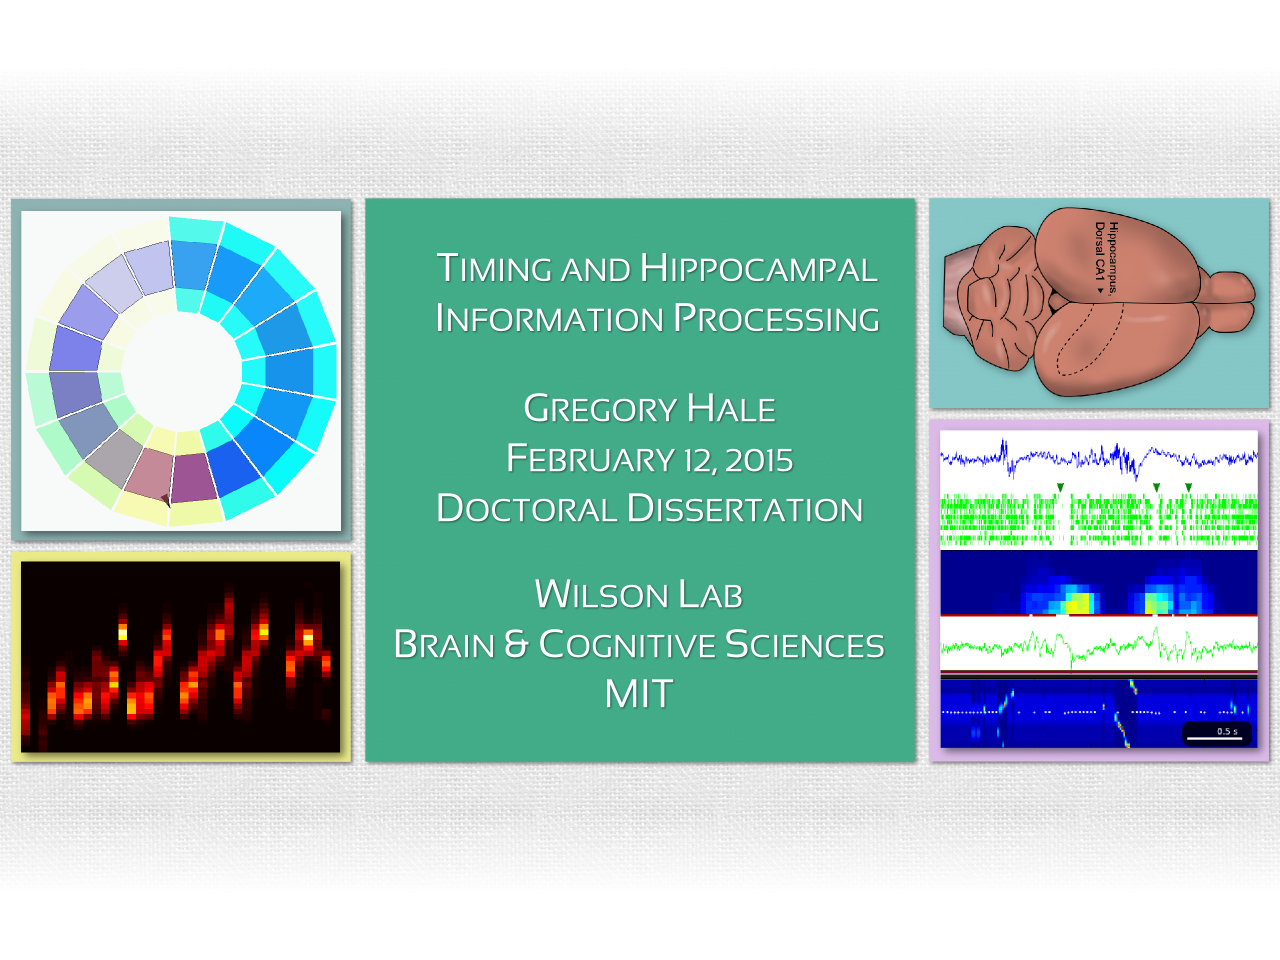
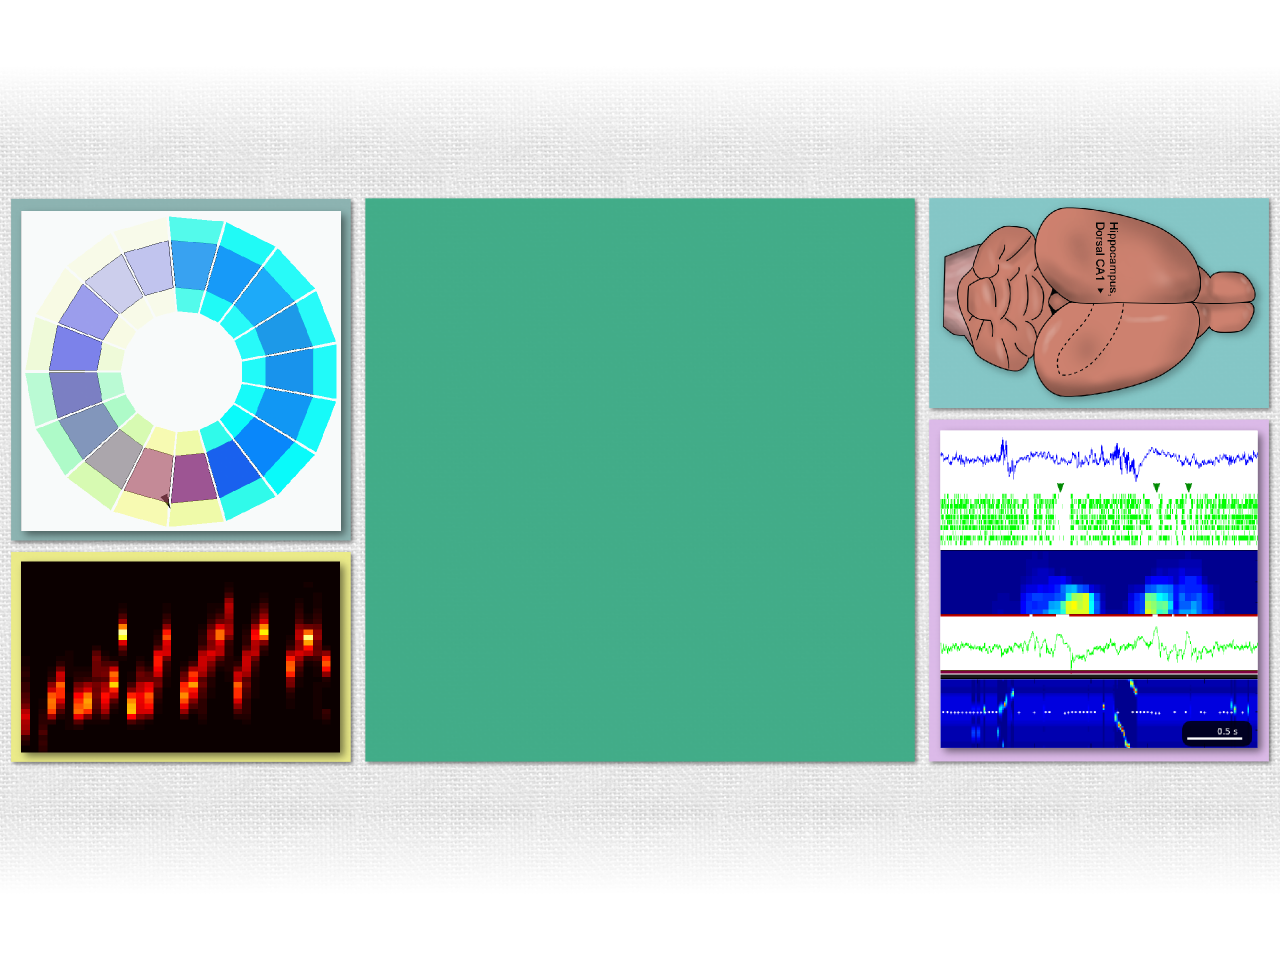
slides

diff --git a/thesis/revealTemplate.html b/thesis/revealTemplate.html
@@ -1,0 +1,110 @@
+<!DOCTYPE html>
+<html$if(lang)$ lang="$lang$"$endif$>
+<head>
+  <meta charset="utf-8">
+  <meta name="generator" content="pandoc">
+$for(author-meta)$
+  <meta name="author" content="$author-meta$" />
+$endfor$
+$if(date-meta)$
+  <meta name="dcterms.date" content="$date-meta$" />
+$endif$
+  <title>$if(title-prefix)$$title-prefix$ - $endif$$pagetitle$</title>
+  <meta name="apple-mobile-web-app-capable" content="yes" />
+  <meta name="apple-mobile-web-app-status-bar-style" content="black-translucent" />
+  <meta name="viewport" content="width=device-width, initial-scale=1.0, maximum-scale=1.0, user-scalable=no">
+  <link rel="stylesheet" href="$revealjs-url$/css/reveal.min.css"/>
+    <style type="text/css">code{white-space: pre;}</style>
+$if(highlighting-css)$
+    <style type="text/css">
+$highlighting-css$
+    </style>
+$endif$
+$if(css)$
+$for(css)$
+    <link rel="stylesheet" href="$css$"/>
+$endfor$
+$else$
+    <link rel="stylesheet" href="$revealjs-url$/css/theme/simple.css" id="theme">
+$endif$
+    <link rel="stylesheet" href="../slides.css"/>
+    <link href='http://fonts.googleapis.com/css?family=Open+Sans' rel='stylesheet' type='text/css'>
+    <!-- If the query includes 'print-pdf', include the PDF print sheet -->
+    <script>
+      if( window.location.search.match( /print-pdf/gi ) ) {
+        var link = document.createElement( 'link' );
+        link.rel = 'stylesheet';
+        link.type = 'text/css';
+        link.href = '$revealjs-url$/css/print/pdf.css';
+        document.getElementsByTagName( 'head' )[0].appendChild( link );
+      }
+    </script>
+    <!--[if lt IE 9]>
+    <script src="$revealjs-url$/lib/js/html5shiv.js"></script>
+    <![endif]-->
+$if(math)$
+    $math$
+$endif$
+$for(header-includes)$
+    $header-includes$
+$endfor$
+</head>
+<body>
+$for(include-before)$
+$include-before$
+$endfor$
+  <div class="reveal">
+    <div class="slides">
+
+$if(title)$
+<section>
+    <h1 class="title">$title$</h1>
+$if(subtitle)$
+  <h1 class="subtitle">$subtitle$</h1>
+$endif$
+$for(author)$
+    <h2 class="author">$author$</h2>
+$endfor$
+    <h3 class="date">$date$</h3>
+</section>
+$endif$
+$if(toc)$
+<section id="$idprefix$TOC">
+$toc$
+</section>
+$endif$
+
+$body$
+    </div>
+  </div>
+
+
+  <script src="$revealjs-url$/lib/js/head.min.js"></script>
+  <script src="$revealjs-url$/js/reveal.min.js"></script>
+
+  <script>
+
+      // Full list of configuration options available here:
+      // https://github.com/hakimel/reveal.js#configuration
+      Reveal.initialize({
+        controls: true,
+        progress: true,
+        history: true,
+        center: true,
+        theme: $if(theme)$'$theme$'$else$Reveal.getQueryHash().theme$endif$, // available themes are in /css/theme
+        transition: $if(transition)$'$transition$'$else$Reveal.getQueryHash().transition || 'default'$endif$, // default/cube/page/concave/zoom/linear/fade/none
+
+        // Optional libraries used to extend on reveal.js
+        dependencies: [
+          { src: '$revealjs-url$/lib/js/classList.js', condition: function() { return !document.body.classList; } },
+          { src: '$revealjs-url$/plugin/zoom-js/zoom.js', async: true, condition: function() { return !!document.body.classList; } },
+          { src: '$revealjs-url$/plugin/notes/notes.js', async: true, condition: function() { return !!document.body.classList; } },
+//          { src: '$revealjs-url$/plugin/search/search.js', async: true, condition: function() { return !!document.body.classList; }, }
+//          { src: '$revealjs-url$/plugin/remotes/remotes.js', async: true, condition: function() { return !!document.body.classList; } }
+]});
+    </script>
+  $for(include-after)$
+  $include-after$
+  $endfor$
+  </body>
+</html>

diff --git a/thesis/slides.css b/thesis/slides.css
@@ -1,0 +1,34 @@
+
+.reveal #timing-and-hippocampal-information-processing h1 {
+    font-size:32pt;
+    font-variant:small-caps;
+    margin-left: 25%;
+    margin-right: 25%;
+    margin-top: 5%;
+    width: 50%;
+    color:white;
+    text-shadow: 1px 1px 1px black;
+    font-family: 'Open Sans', sans-serif;
+}
+
+.reveal #timing-and-hippocampal-information-processing ul{
+    margin-left: 25%;
+    margin-right: 25%;
+    width:50%;
+    color:white;
+}
+
+.reveal #timing-and-hippocampal-information-processing ul li {
+    font-size:32pt;
+    font-variant:small-caps;
+    list-style-type: none;
+    text-align: center;
+    text-shadow: 1px 1px 1px black;
+    font-family: 'Open Sans', sans-serif;
+}
+
+
+.reveal #timing-and-hippocampal-information-processing{
+
+
+}

diff --git a/thesis/defense.md b/thesis/defense.md
@@ -1,0 +1,52 @@
+# Timing and Hippocampal Information Processing {data-background="../finalFigs/titleSlide.png"}
+
+<br>
+
+ - Gregory Hale 
+ - Doctoral Dissertation
+ - February 12, 2015
+
+<br/>
+
+ - Wilson Lab
+ - Brain & Cognitive Sciences
+ - MIT
+
+# The role of time in hippocampal spatial processing
+
+ - Test Bullet list
+ - Another testep
+
+# Timing of hippocampal cortical sleep rhythms, during wake
+
+# A new tool for responding to ensemble coding in real time
+
+
+# Synchronized information in a desynchronized circuit
+# Theta oscillations, timing offsets
+# Theta sequences
+# Position decoding, regional offsets
+# Follow-up: pairwise time offsets
+# Interpretation
+
+# Retrosplenial cortex slow-wave wake
+# Slow-wave sleep, frames, and HPC-CTX interactions
+# RSC exhibits SWS-like behavior during rewards
+# SWW coordinates with HPC
+# SWW appearance under diverse conditions
+# SWW anatomical restriction
+# Interpretation
+
+# Real time position decoding
+# Hippocampal replay
+# Real time experiments
+# Position decoding
+# Real time decoding challenges
+# Concurrency
+# Haskell
+# Real time demo
+# Example decodings
+# Bugs, deadlocks, crashes, and performance debugging
+# Sketching a full real time decoding system
+
+# Thank you's
